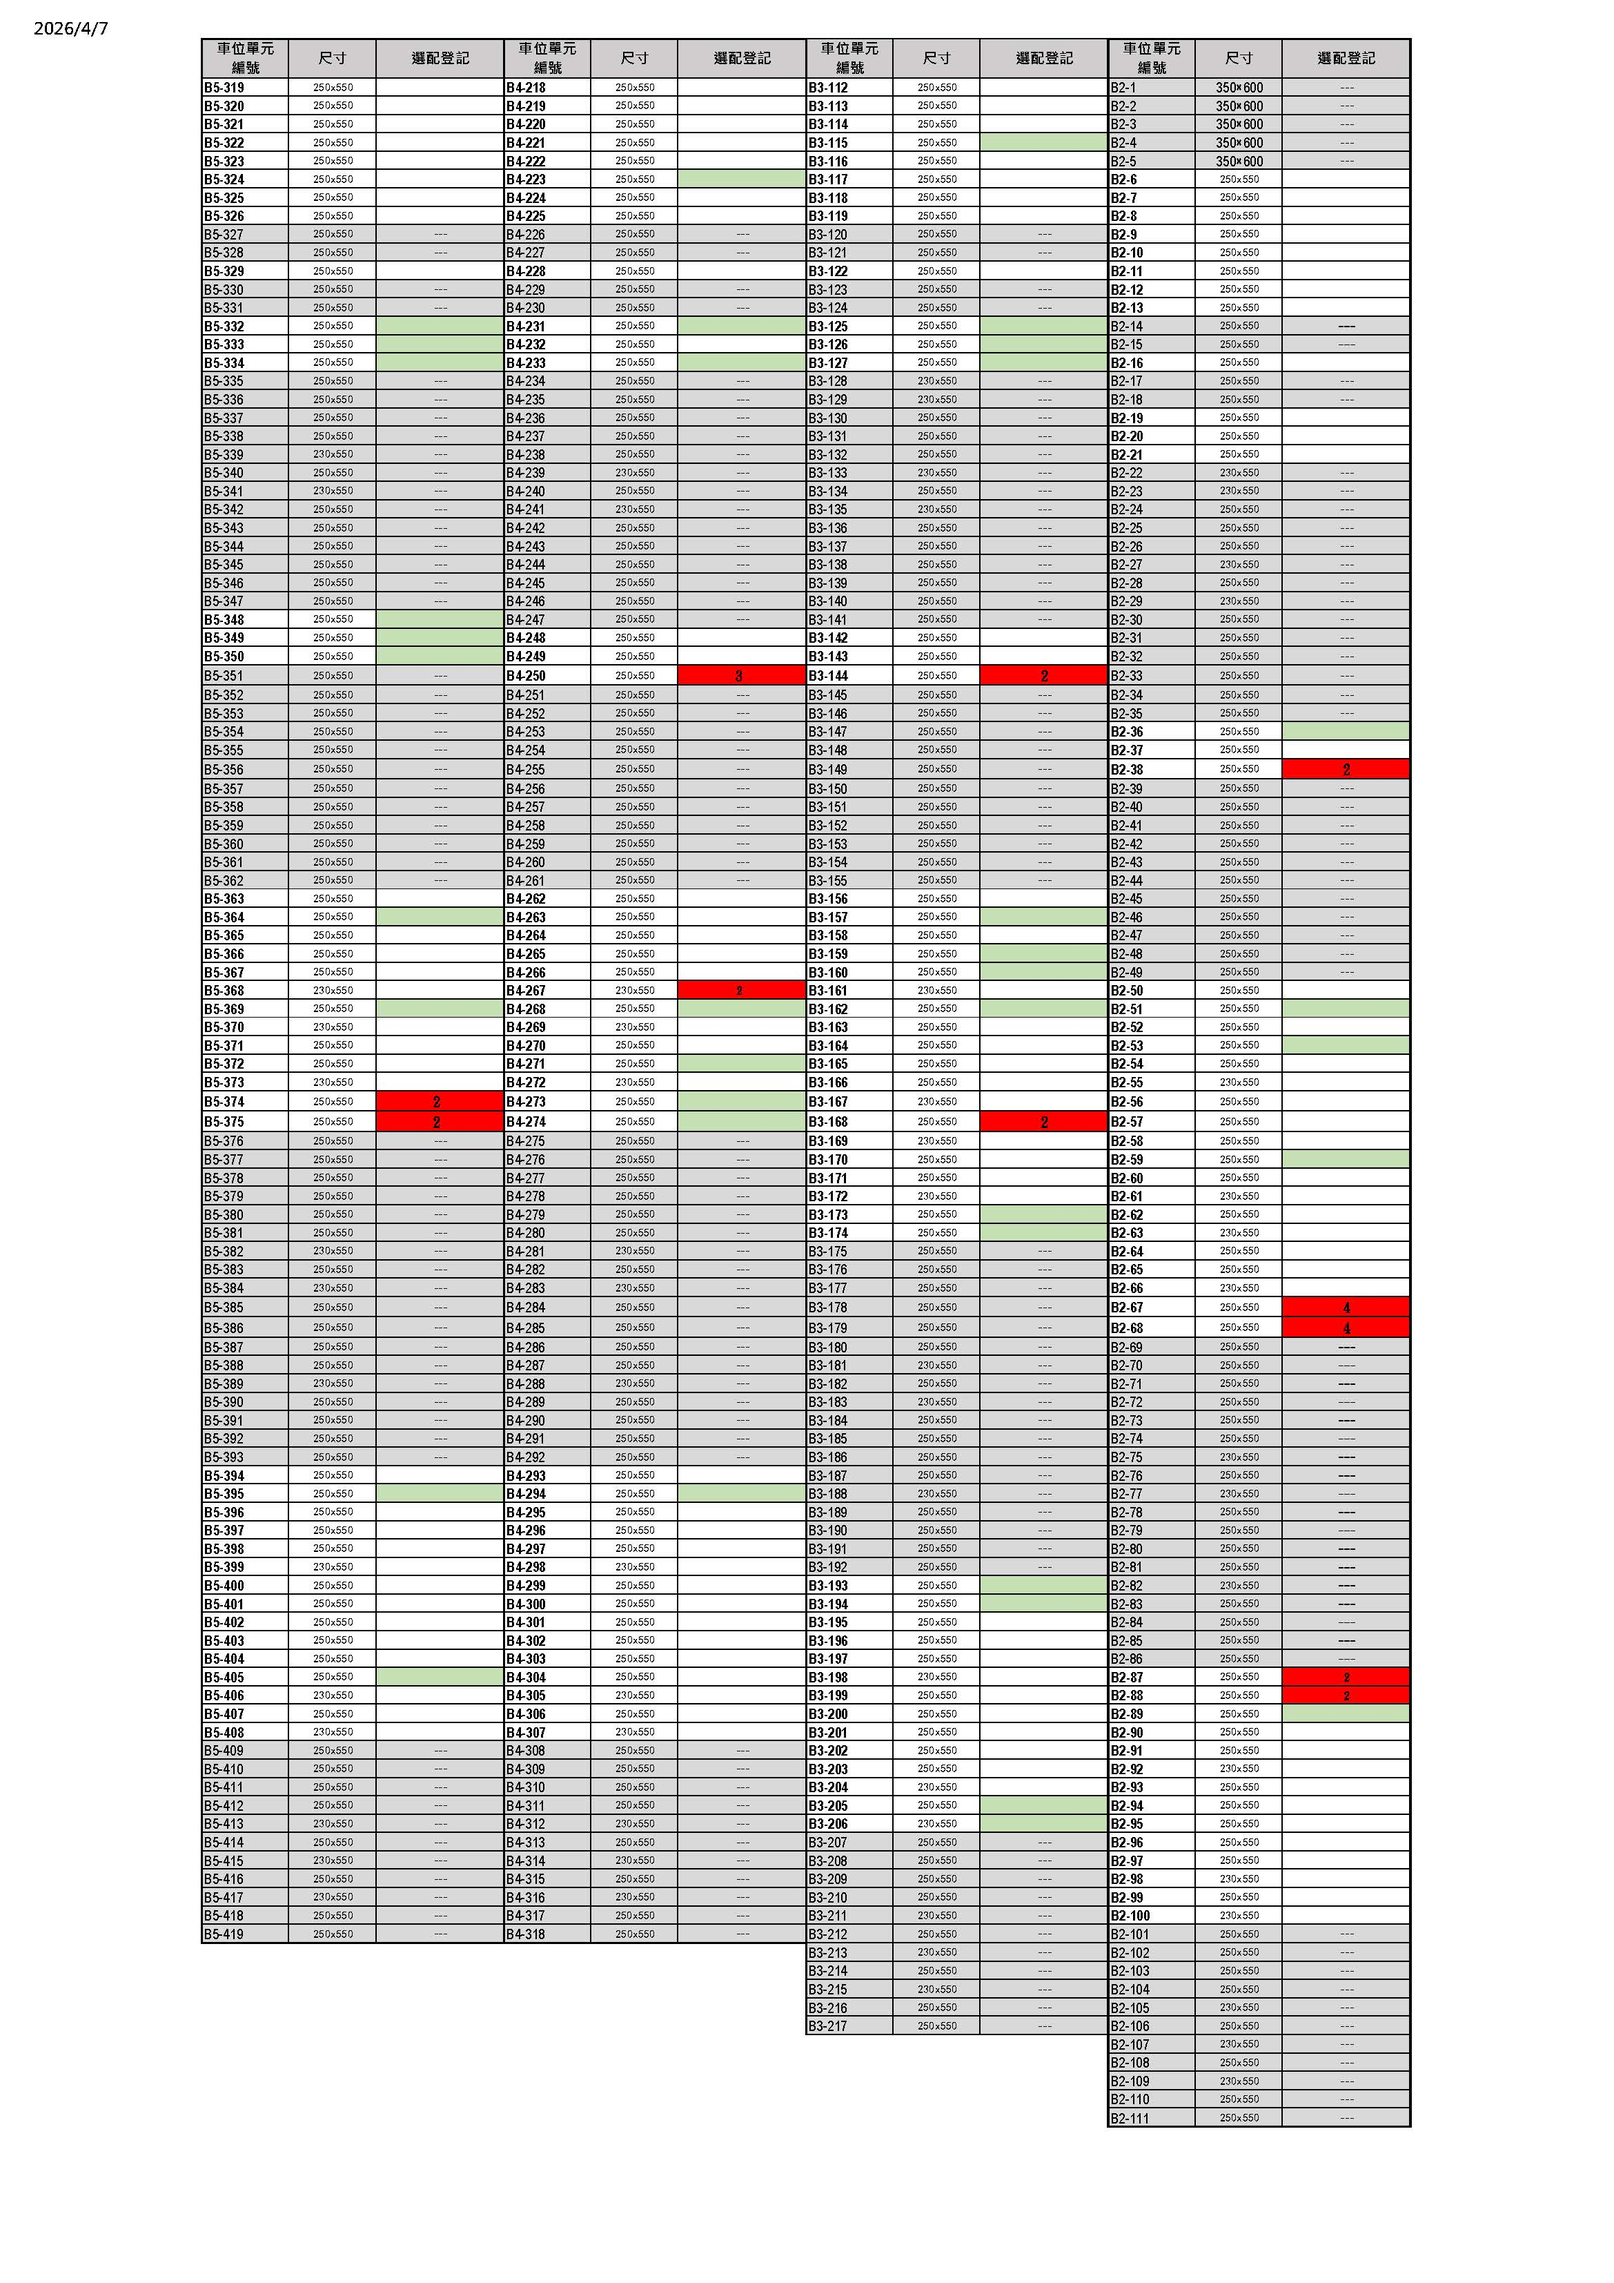
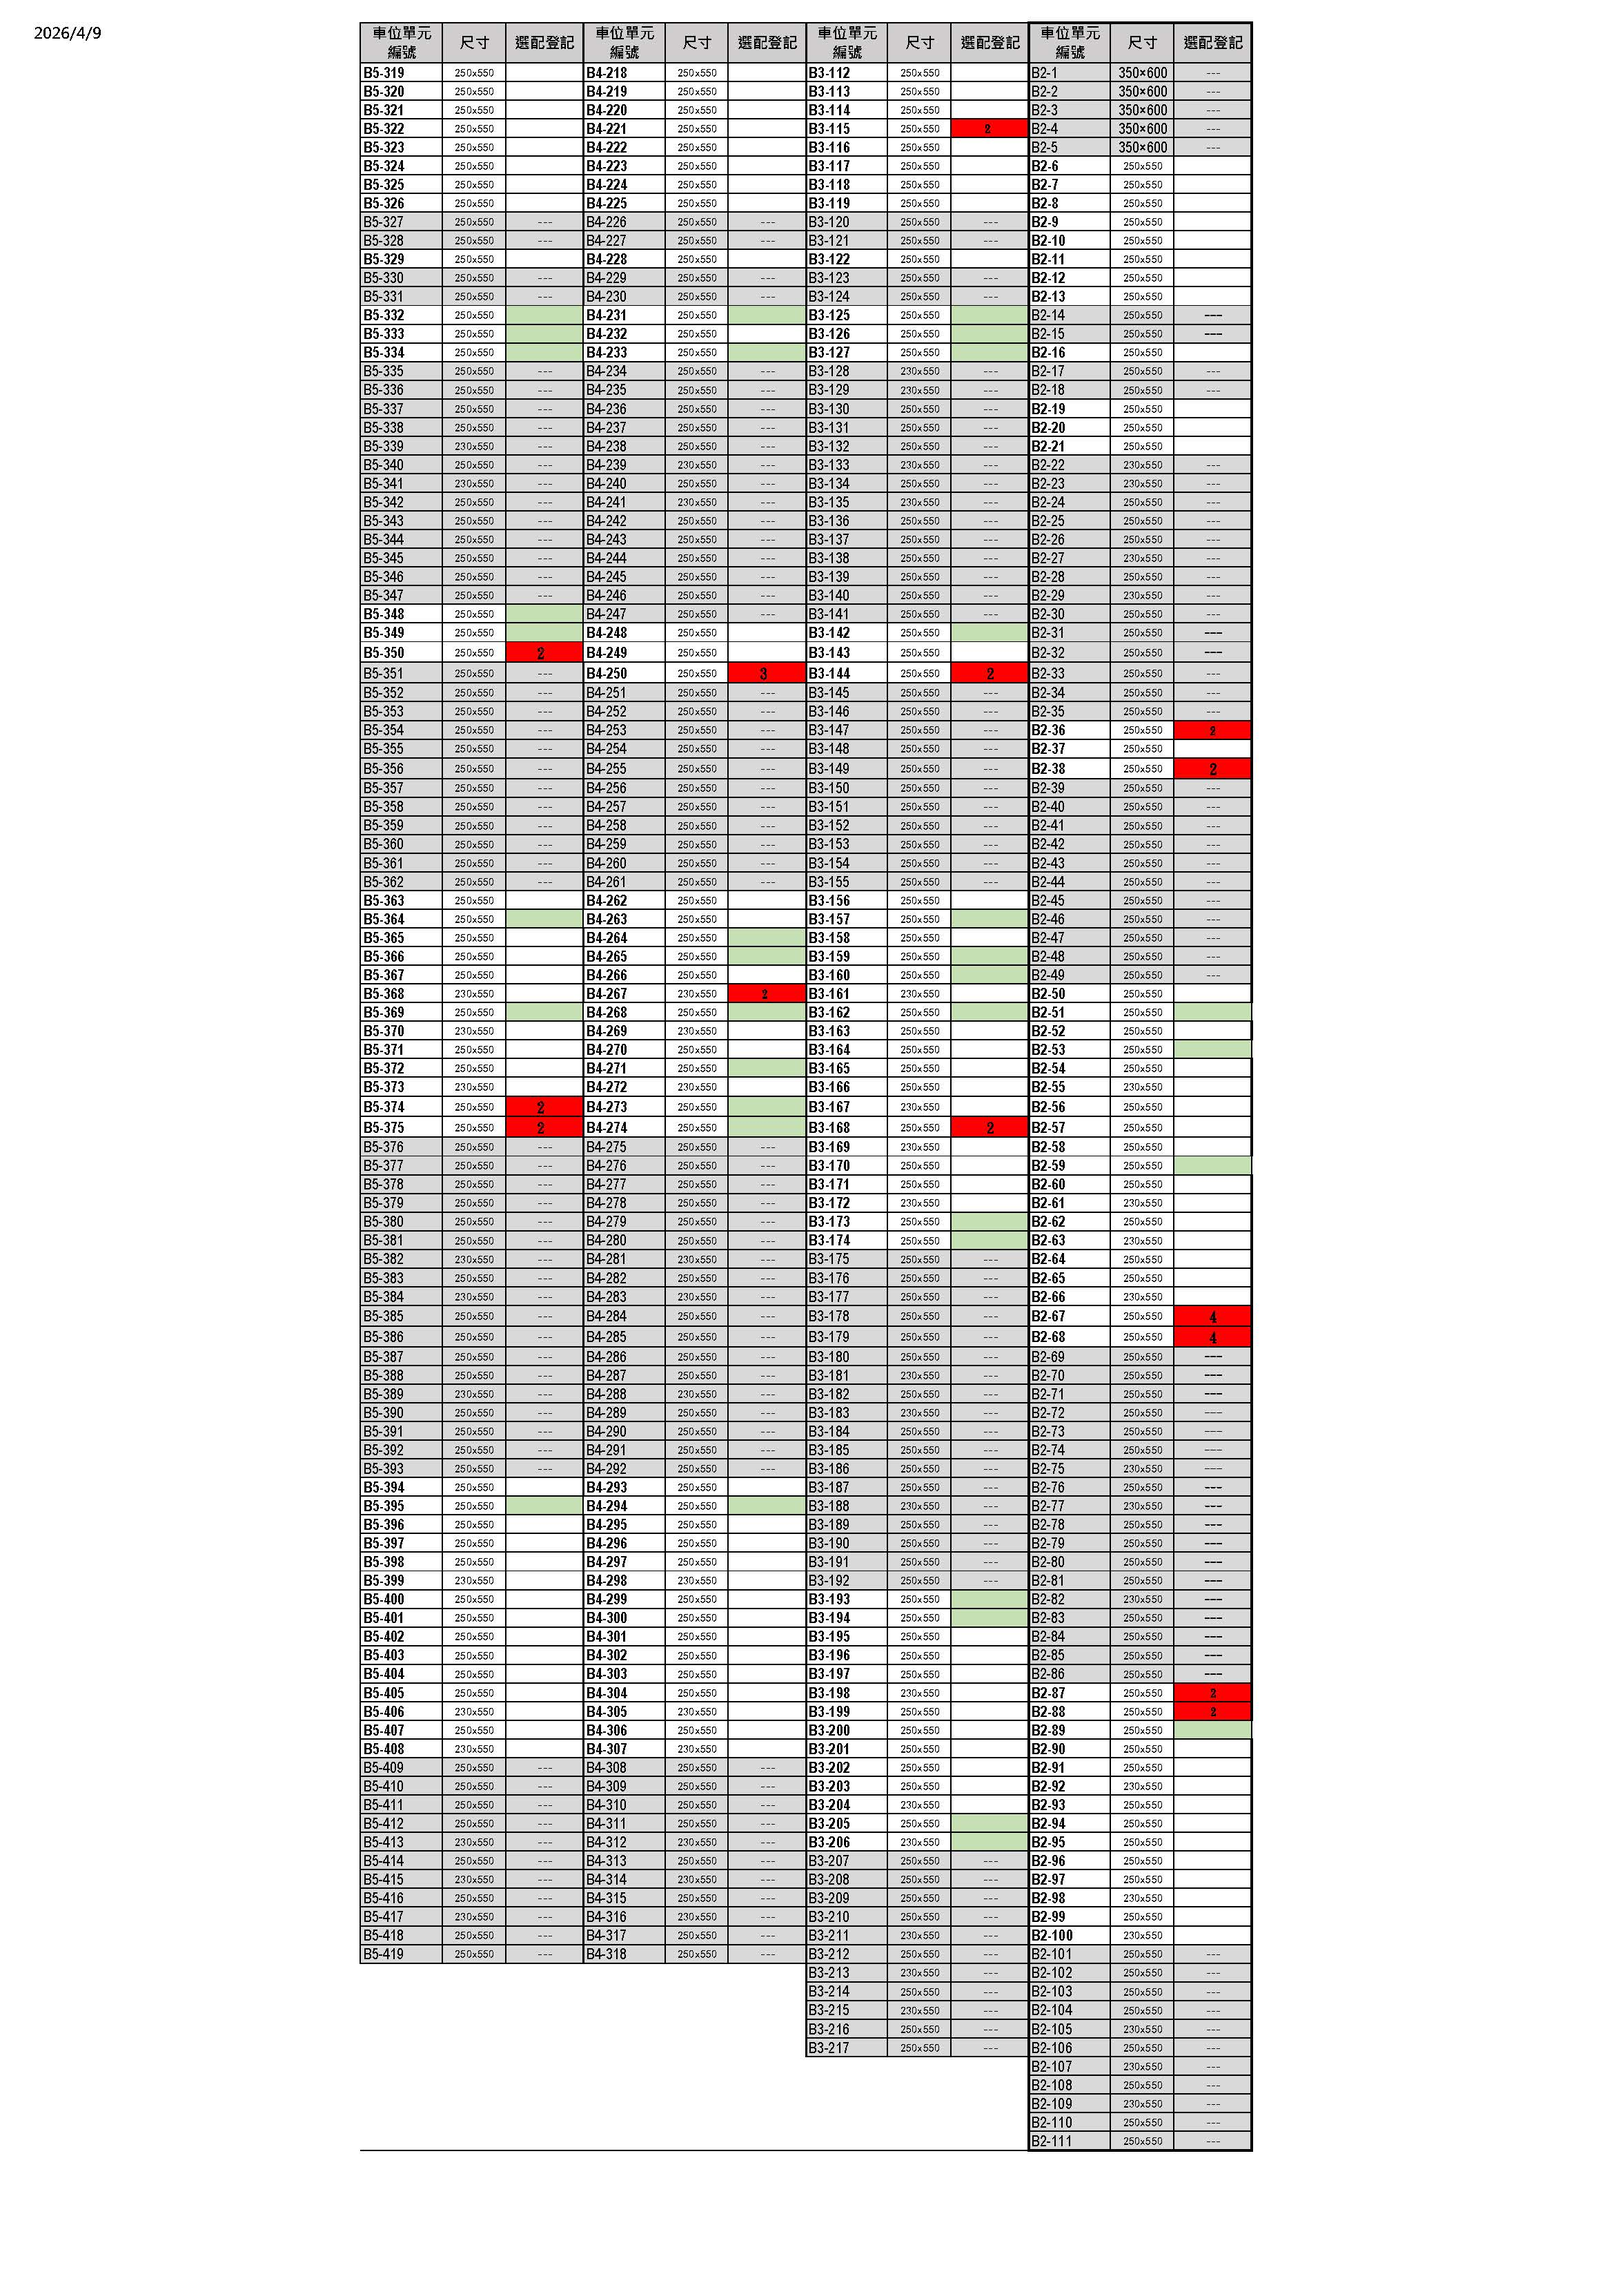
20260409-update

Changed region(s): [[0.1248, 0.0, 0.8739, 0.9655], [0.0312, 0.0, 0.0624, 0.0311]]

diff --git a/dunyang/choose_building.html b/dunyang/choose_building.html
@@ -166,8 +166,8 @@
 </div>
 <h2>🏢 建物選配表</h2>
 <div style="text-align: center;">
-<h1 id="building-update-time" style="color: red; font-weight: bold; border-bottom: none; margin-top: 0; padding-bottom: 0;">更新日期：2026/04/07</h1>
-<span id="building-update-time-full" style="display: none;">2026/04/07 19:29:56</span>
+<h1 id="building-update-time" style="color: red; font-weight: bold; border-bottom: none; margin-top: 0; padding-bottom: 0;">更新日期：2026/04/09</h1>
+<span id="building-update-time-full" style="display: none;">2026/04/09 20:19:27</span>
 </div>
 <div class="img-container" id="building-container"><div style="display: flex; justify-content: center;"><img src="file/updated_building_selection.jpg" style="max-width: 100%; height: auto; border-radius: 4px; box-shadow: 0 2px 5px rgba(0,0,0,0.1);"/></div></div>
 <div class="footer">

diff --git a/dunyang/choose_parking.html b/dunyang/choose_parking.html
@@ -157,8 +157,8 @@
 </div>
 <h2>🚗 車位選配表</h2>
 <div style="text-align: center;">
-<h1 id="parking-update-time" style="color: red; font-weight: bold; border-bottom: none; margin-top: 0; padding-bottom: 0;">更新日期：2026/04/07</h1>
-<span id="parking-update-time-full" style="display: none;">2026/04/07 19:29:56</span>
+<h1 id="parking-update-time" style="color: red; font-weight: bold; border-bottom: none; margin-top: 0; padding-bottom: 0;">更新日期：2026/04/09</h1>
+<span id="parking-update-time-full" style="display: none;">2026/04/09 20:19:29</span>
 </div>
 <div class="img-container" id="parking-container"><div style="display: flex; justify-content: center;"><img src="file/updated_parking_selection.jpg" style="max-width: 100%; height: auto; border-radius: 4px; box-shadow: 0 2px 5px rgba(0,0,0,0.1);"/></div></div>
 <div class="footer">
